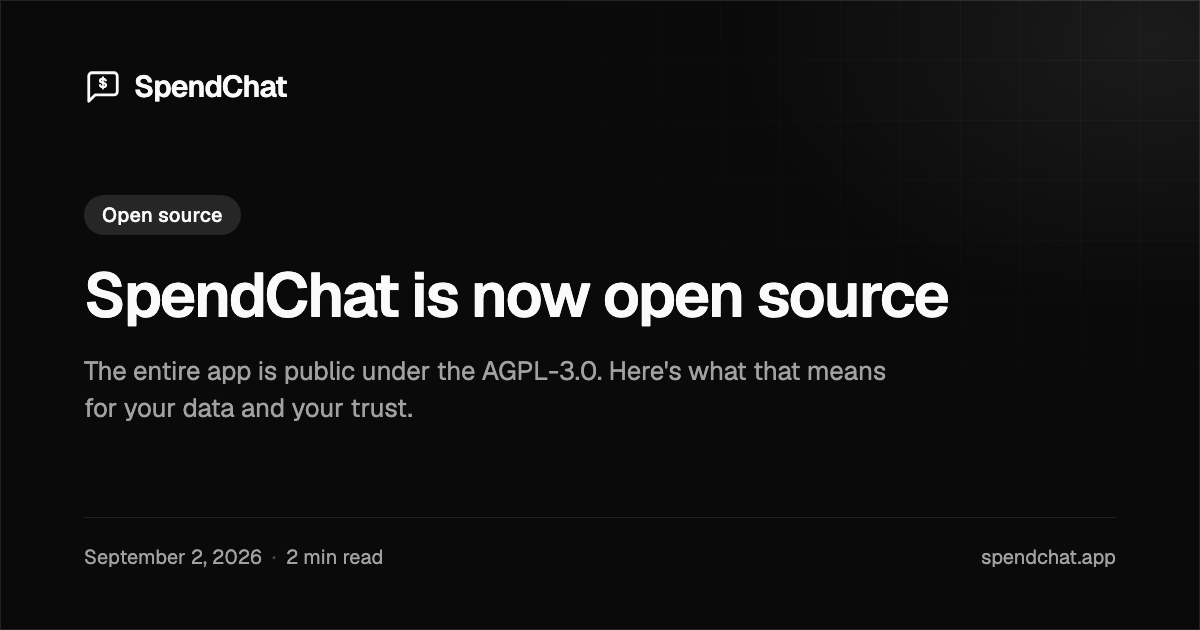
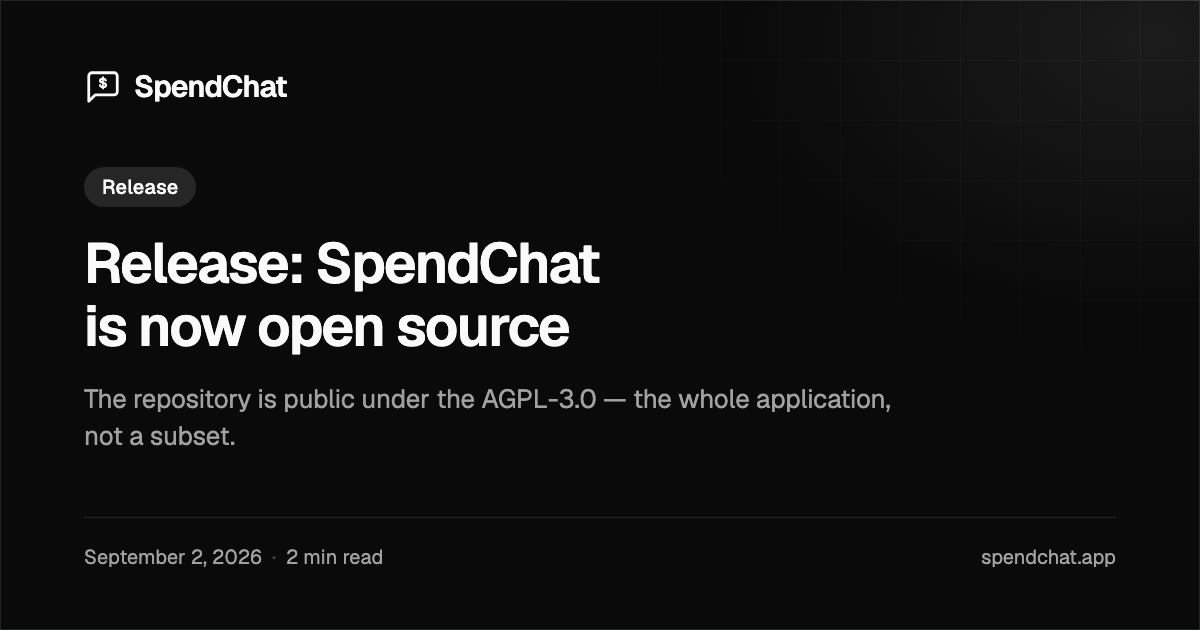
content(blog): cut the open-source post back to a release note
It had grown a general argument for open-sourcing a money app — why it matters,
what is under the hood — which the new deep-dive now makes properly and at
length. Two pages answering one question helps neither, and this was the older
and thinner of the two.

It now does the job an announcement should: what shipped, where the repository
is, what changes for you, and a pointer to the longer piece. Retagged Release.

Changed region(s): [[0.0617, 0.2413, 0.8017, 0.7238]]

diff --git a/scripts/blog-image.html b/scripts/blog-image.html
@@ -329,10 +329,10 @@
           readingMinutes: 7,
         },
         "spendchat-is-now-open-source": {
-          tag: "Open source",
-          title: "SpendChat is now open source",
+          tag: "Release",
+          title: "Release: SpendChat is now open source",
           excerpt:
-            "The entire app is public under the AGPL-3.0. Here's what that means for your data and your trust.",
+            "The repository is public under the AGPL-3.0 — the whole application, not a subset.",
           date: "2026-09-02",
           readingMinutes: 2,
         },
